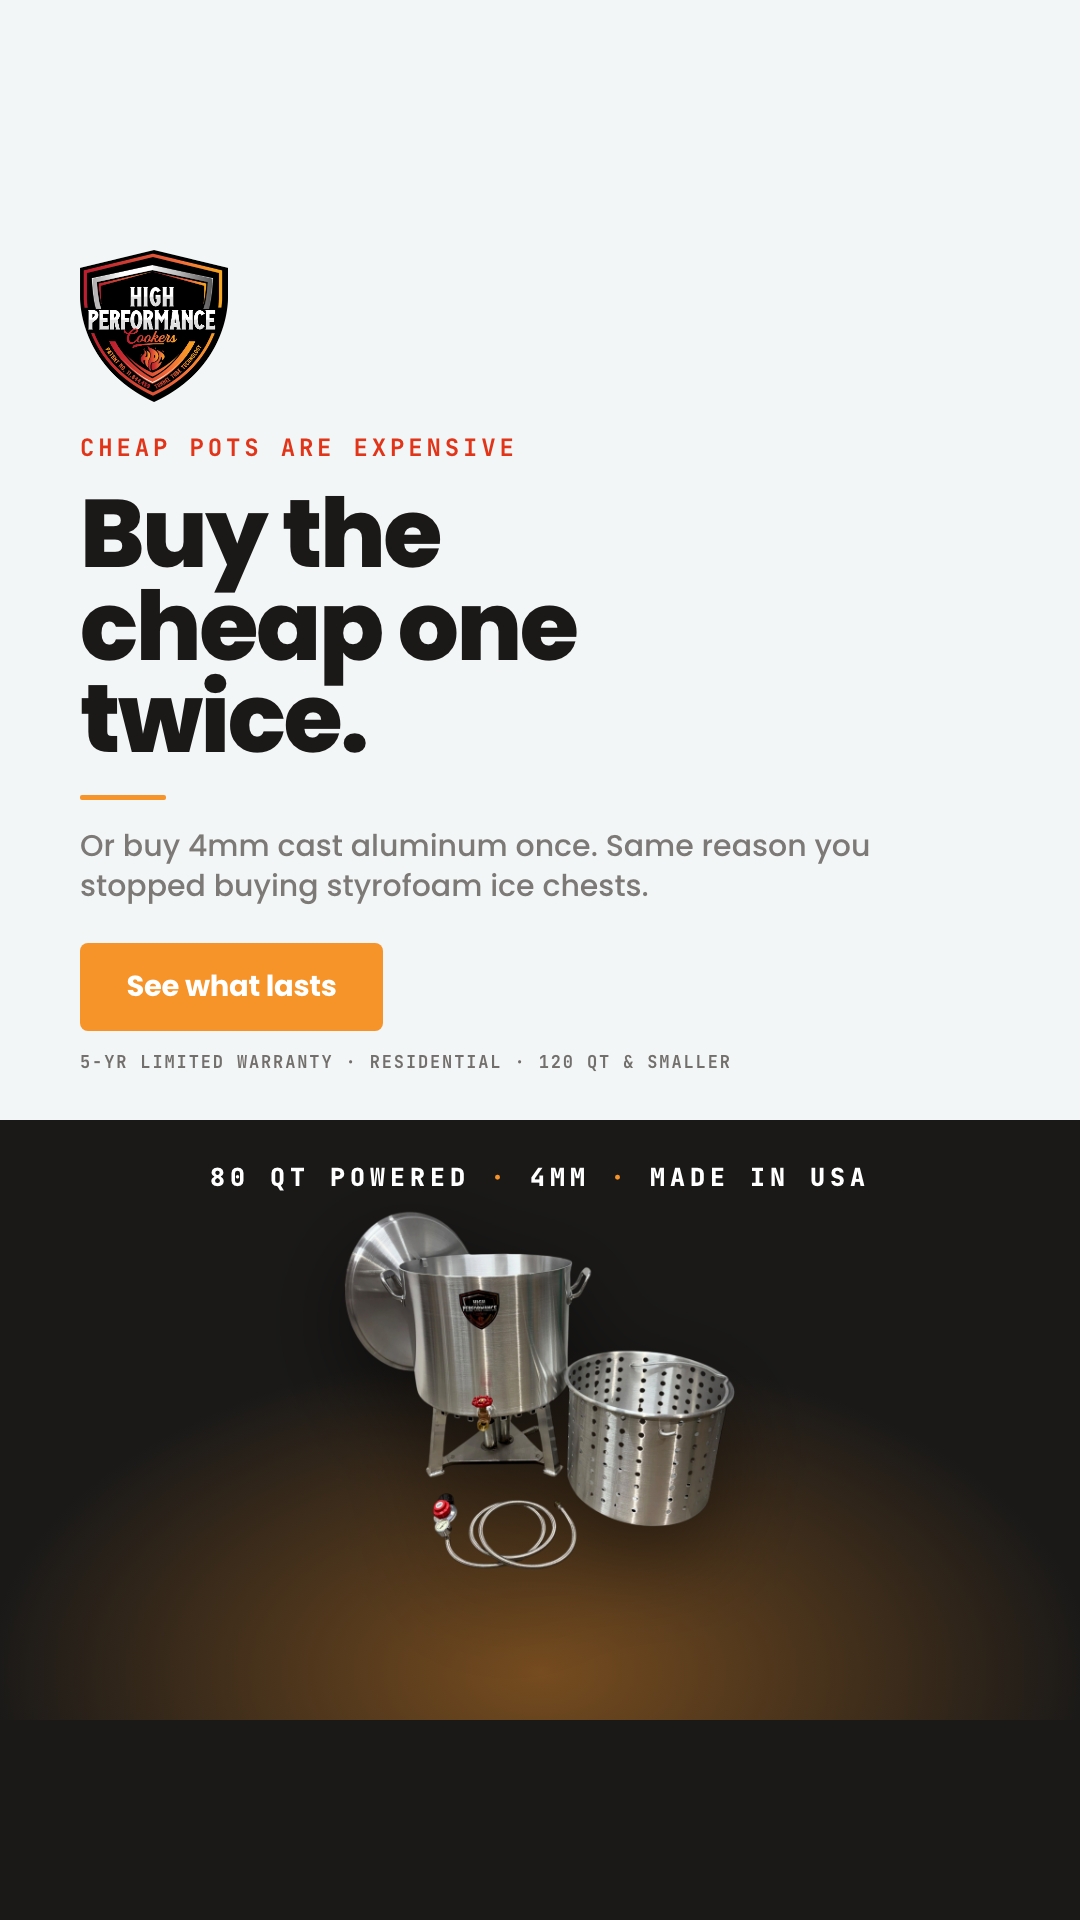
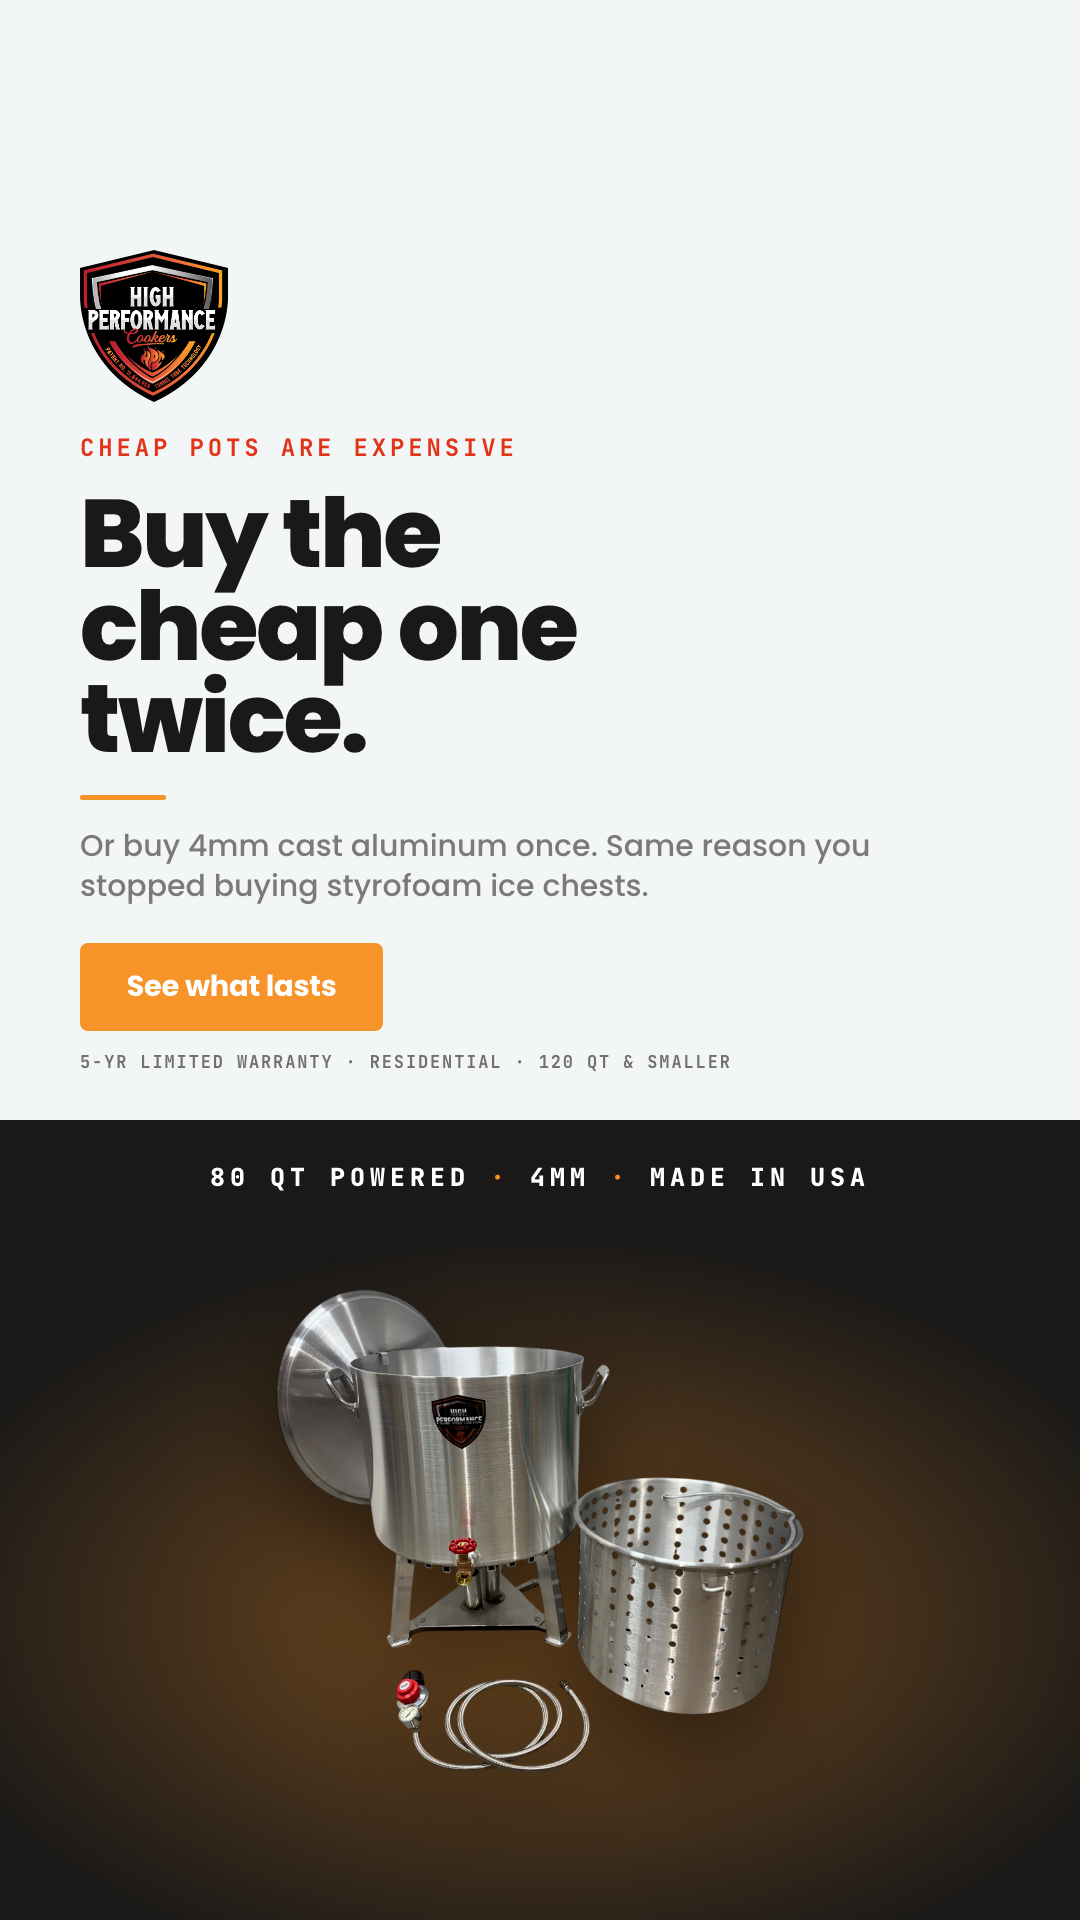
80qt 9:16: bigger pot, glow extended to the panel edge; warranty stops being an open question
The dark panel ran 800px but its glow only 600px, leaving a flat band that read as
a cut-off background. Glow now fills the panel; pot scaled ~1.35x and centred.

Evan: read the live warranty page and write from it, do not ask again. Folded into
the board as a standing line; the yeti-1x1 hardcode is now Nova's task rather than
a pending Evan decision.

Changed region(s): [[0.0917, 0.625, 0.9167, 1.0]]

diff --git a/my-skills/hpc-ad-creative/work/creative/templates/80qt-buy-cheap-twice/9x16.html b/my-skills/hpc-ad-creative/work/creative/templates/80qt-buy-cheap-twice/9x16.html
@@ -14,12 +14,12 @@ html,body{width:1080px;height:1920px}
 .warranty{margin-top:20px;font-family:'JetBrains Mono',monospace;font-weight:700;font-size:17px;
   color:var(--muted);letter-spacing:.11em}
 .bot{position:absolute;left:0;right:0;top:1120px;bottom:0;background:var(--ink);overflow:hidden}
-.bot:after{content:"";position:absolute;left:0;right:0;top:0;height:600px;
-  background:radial-gradient(80% 84% at 50% 92%,rgba(246,147,41,.42),transparent 64%)}
+.bot:after{content:"";position:absolute;left:0;right:0;top:0;bottom:0;
+  background:radial-gradient(88% 70% at 50% 62%,rgba(246,147,41,.42),transparent 68%)}
 .stamp{position:absolute;top:40px;left:0;right:0;text-align:center;z-index:3;
   font-family:'JetBrains Mono',monospace;font-weight:800;font-size:25px;color:#fff;letter-spacing:.2em}
 .stamp b{color:var(--accent)}
-.pzone{position:absolute;left:0;right:0;top:70px;height:400px;z-index:2;
+.pzone{position:absolute;left:0;right:0;top:110px;height:600px;z-index:2;
   display:flex;align-items:center;justify-content:center}
 .shadow{filter:drop-shadow(0 30px 44px rgba(0,0,0,.5))}
 </style></head>
@@ -35,6 +35,6 @@ html,body{width:1080px;height:1920px}
   </div>
   <div class="bot">
     <div class="stamp">80 QT POWERED <b>&middot;</b> 4MM <b>&middot;</b> MADE IN USA</div>
-    <div class="pzone"><div class="pbox shadow" style="width:392px;height:360px"><img src="../../../../assets/product-cutouts/80qt - pwd.png" style="width:422px;left:-17px;top:-124px"></div></div>
+    <div class="pzone"><div class="pbox shadow" style="width:529px;height:486px"><img src="../../../../assets/product-cutouts/80qt - pwd.png" style="width:570px;left:-23px;top:-167px"></div></div>
   </div>
 </div></body></html>

diff --git a/my-desk (now)/BOARD.md b/my-desk (now)/BOARD.md
@@ -47,7 +47,6 @@
 |---|---|---|
 | **Evan** | Upload the 4 evergreen PNGs to the Meta media library — **only he can put files into Meta**; without it Wednesday has nothing to switch on | 2026-09-08 |
 | **Evan** | Review the 12 unreviewed drafts; decide the BOM-gate override | 2026-09-08 |
-| **Evan** | Decide: make the hardcoded warranty badge a variable (see Landmines) | 2026-09-01 |
 | **Evan** | Ask Garrett for a 15–20s cut of the 18 QT video | 2026-09-01 |
 | **Jay** | **Landed BOM + monthly overhead — now the highest-value unblock in the business.** Gates the 18 QT ladder *and* the ~$50.58 legs threshold | 2026-08-28 |
 | **Coalition** | Reply on Cater + Event, Mar 22–25 | — |
@@ -71,8 +70,7 @@
 
 ## ⛔ Landmines — do not ship these
 
-- 🔴 **`yeti-1x1.html` line 37 hardcodes `5-YR RESIDENTIAL WARRANTY`** — every ad from that template carries it regardless of product. **Awaiting Evan.** ⚠ Live consequence: **`80qt-buy-cheap-twice` now carries two different warranty wordings across one placement set** — the approved 1:1 has the short form, the new 9:16 and 1.91:1 have the fully-qualified `5-YR LIMITED · RESIDENTIAL · 120 QT & SMALLER`. Nothing false (all ≤120 QT); unify before publish. → `templates/80qt-buy-cheap-twice/1x1.html:37`
-- **The live warranty page governs — it is what the customer sees.** Evan, 2026-09-08. Verbatim: *"LIMITED FIVE YEAR WARRANTY — FOR RESIDENTIAL USE ONLY (120 Quarts or smaller)"*, plus a **full 2-year on everything** (not commercial-only). **The size cap is the constraint, not the phrasing.** ⛔ Never a 5-year claim on the **160 QT**, the **80–140 Gallon** line, or any **steamer**.
+- **Warranty: read the live page and write from it. Do not ask Evan about wording again** — Evan, 2026-09-08. → `highperformancecookers.com/pages/warranty-information`. **Full 2-year on everything; limited 5-year residential, 120 QT or smaller.** ⛔ The only hard line left: **never a 5-year claim on the 160 QT, the 80–140 Gallon line, or any steamer** — and `yeti-1x1.html` hardcodes one at line 37, so nothing built from that template may point at those. Making it a variable is **Nova's job, not a question for Evan.**
 - 🔴 **`120qt-rolling-boil` contradicts itself on Powered vs Performance — all three sizes.** Copy reads *"Tunnel Tube technology is in the pot — so it works on any burner you already own."* That is the **Performance** claim. The product pictured is a **Powered** cooker, burner welded on. The tunnel-tube half is right and is HPC's best line; the "any burner you already own" clause is what breaks. Fix = drop the clause, or swap the shot to a Performance pot. **Do not publish until resolved.** Found 2026-09-08.
 - ⛔ **`2026-08-27_laborday-vintage_multi-product_1080x1350_v1.png` is NOT evergreen.** Checked 2026-09-08 — carries "LABOR DAY SALE", "10% OFF EVERYTHING", both codes and "SEPT 1–8". It was flagged as a retargeting candidate; it cannot be used.
 - ⛔ **Do not repeat the 30%-off-legs mechanic in November** until landed cost per leg extension exists. Below ~$50.58 it paid for itself; above, it lost money on higher volume.

diff --git a/my-desk (now)/decisions.md b/my-desk (now)/decisions.md
@@ -11,6 +11,14 @@
 
 ## 2026-09
 
+**Stop escalating warranty wording — read the live page and write from it** — Evan,
+2026-09-08. *"No reason to keep bringing up the warranty stuff, as we've already fixed it.
+Just go off of the warranty page on the website. No need to ask me. I will check everything
+that is done, so I will see if there's something wrong."* Supersedes the same-day entry below
+that treated the page-vs-summary gap as an open question — it is closed. The page is the
+source; **making `yeti-1x1.html`'s hardcoded badge a variable is Nova's task, not a decision
+to put back to Evan.** The size cap still binds on steamer, commercial and the 160 QT.
+
 **The live warranty page governs — it is what the customer sees** — Evan, 2026-09-08.
 Settles a wobble: Evan restated the warranty as "5-year for all consumer pots, 2-year for the
 big commercial pots." Checked against the live page, which reads **"LIMITED FIVE YEAR WARRANTY
